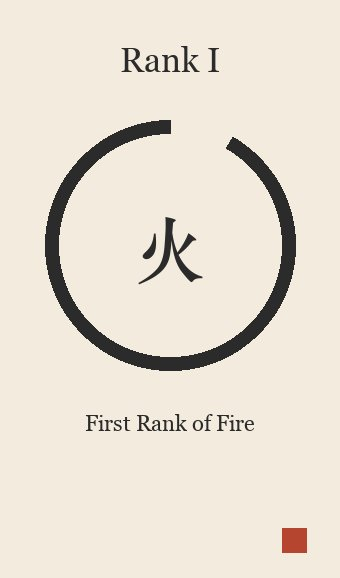
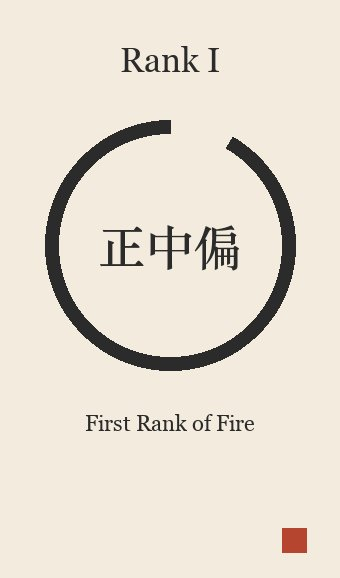
feat: show rank names on the Zen rank cards
The 25 rank cards show their Five Ranks name (正中偏 … 兼中到) in place of the
element character, with the romanised reading beneath, on the card face and in
the detail view. Placeholders for the undrawn rank cards regenerated to match.

Changed region(s): [[0.2941, 0.3737, 0.7059, 0.4983]]

diff --git a/scripts/helper.js b/scripts/helper.js
@@ -184,7 +184,7 @@ function showCardDetails(cid) {
                 </div>
                 <div class="modal-title-row">
                     <h2>${getVal('.card-title')}</h2>
-                    <span class="sign-symbol">${getVal('.sign-symbol') || getVal('.tag-mini-suit')}</span>
+                    <span class="sign-symbol">${card.querySelector('.sign-symbol')?.innerHTML.trim() || getVal('.tag-mini-suit')}</span>
                 </div>
                 ${description || !symbolism ? `<div class="full-description">${description || 'No description available.'}</div>` : ''}
                 ${symbolism ? `<div class="modal-symbolism">${symbolism}</div>` : ''}

diff --git a/styles/main.css b/styles/main.css
@@ -307,6 +307,17 @@ img.missing {
     white-space: nowrap;
 }
 
+/* Romanised reading under a glyph, e.g. 正中偏 / shōchūhen */
+.glyph-reading {
+    display: block;
+    font-family: 'Inter', sans-serif;
+    font-size: 0.45em;
+    font-weight: 600;
+    font-style: italic;
+    letter-spacing: 0.03em;
+    text-align: right;
+}
+
 /* Play area: shuffle and pull */
 .play-controls {
     display: flex;
